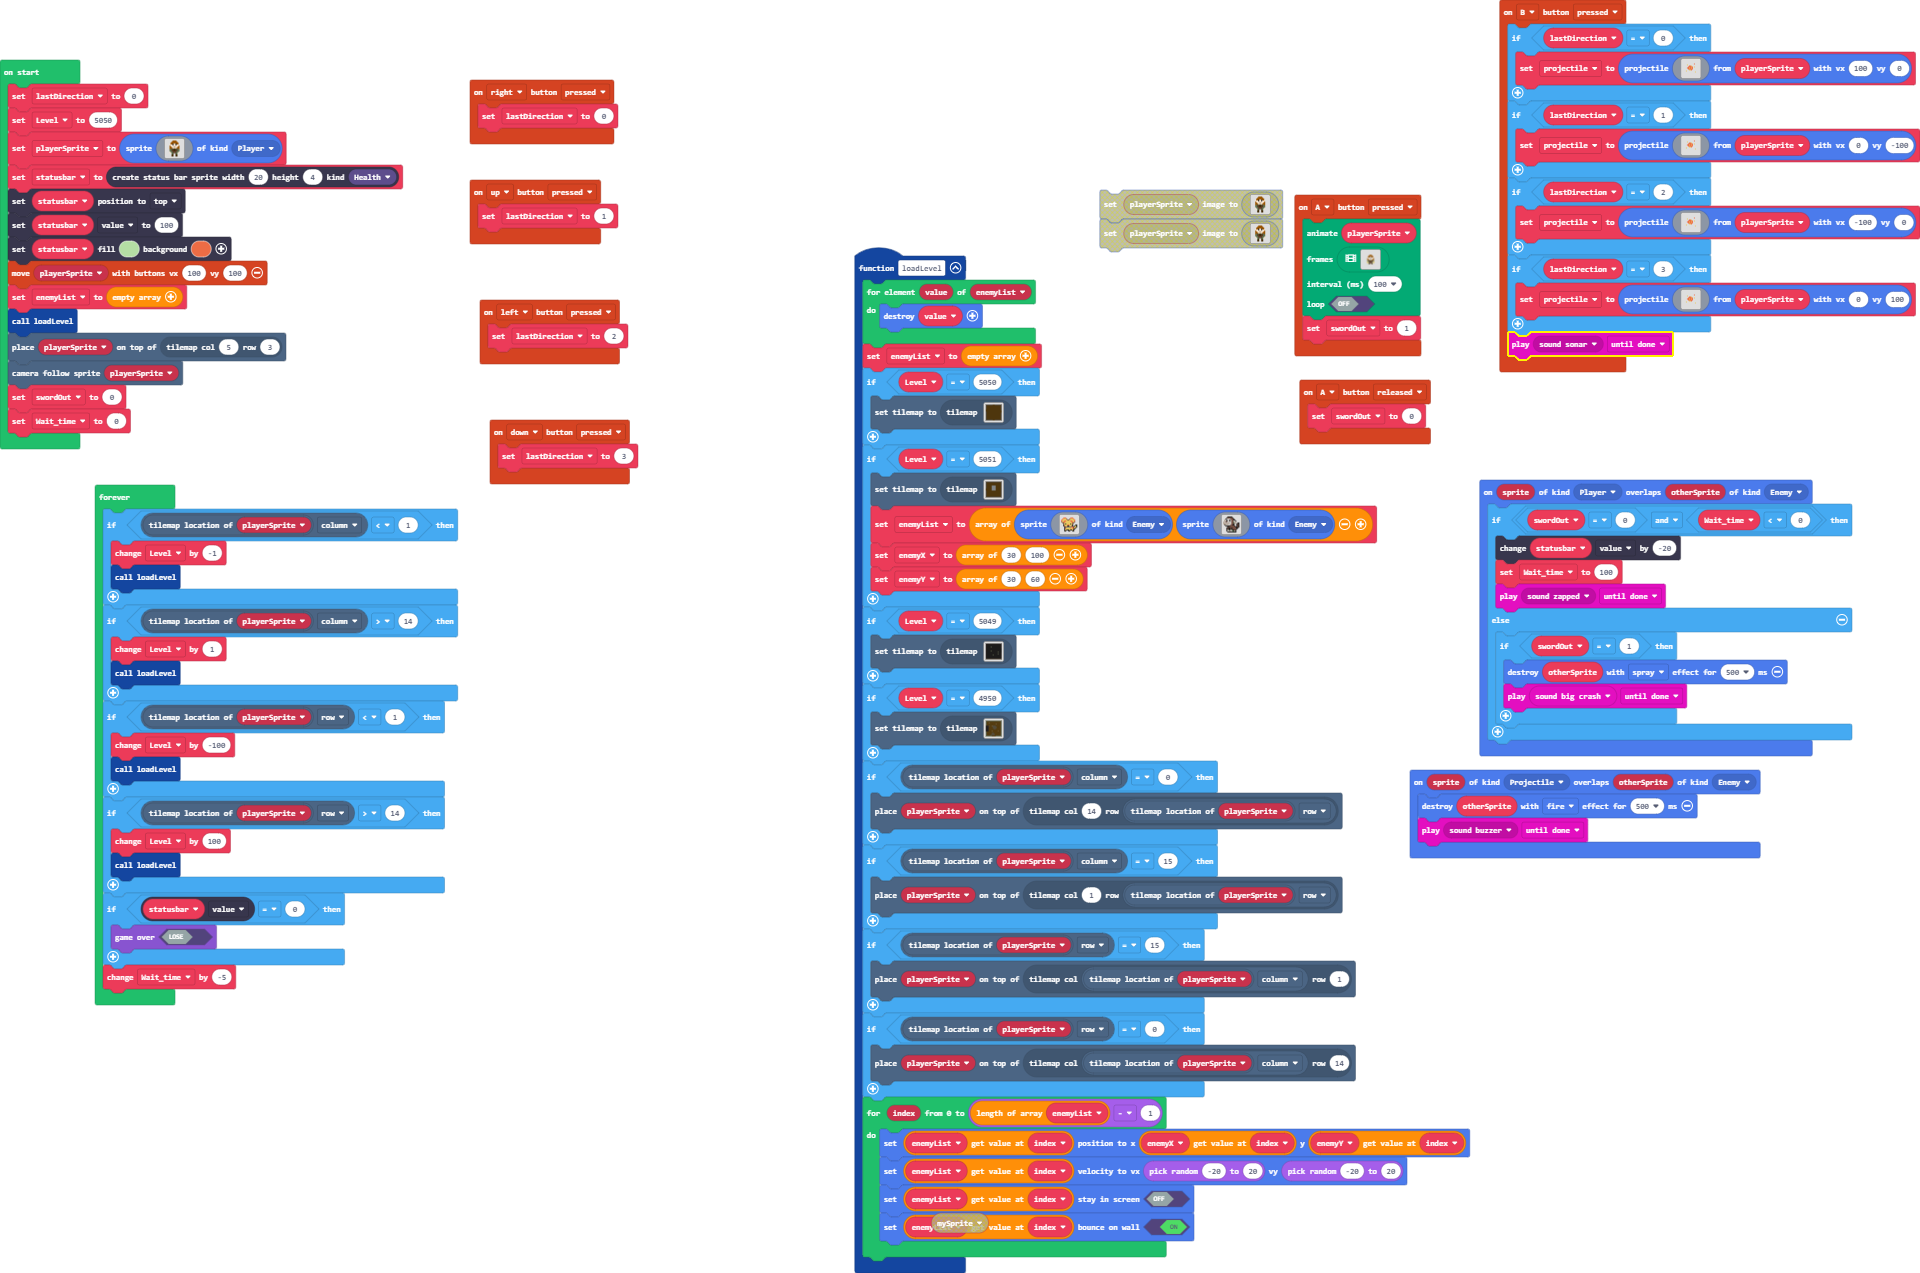
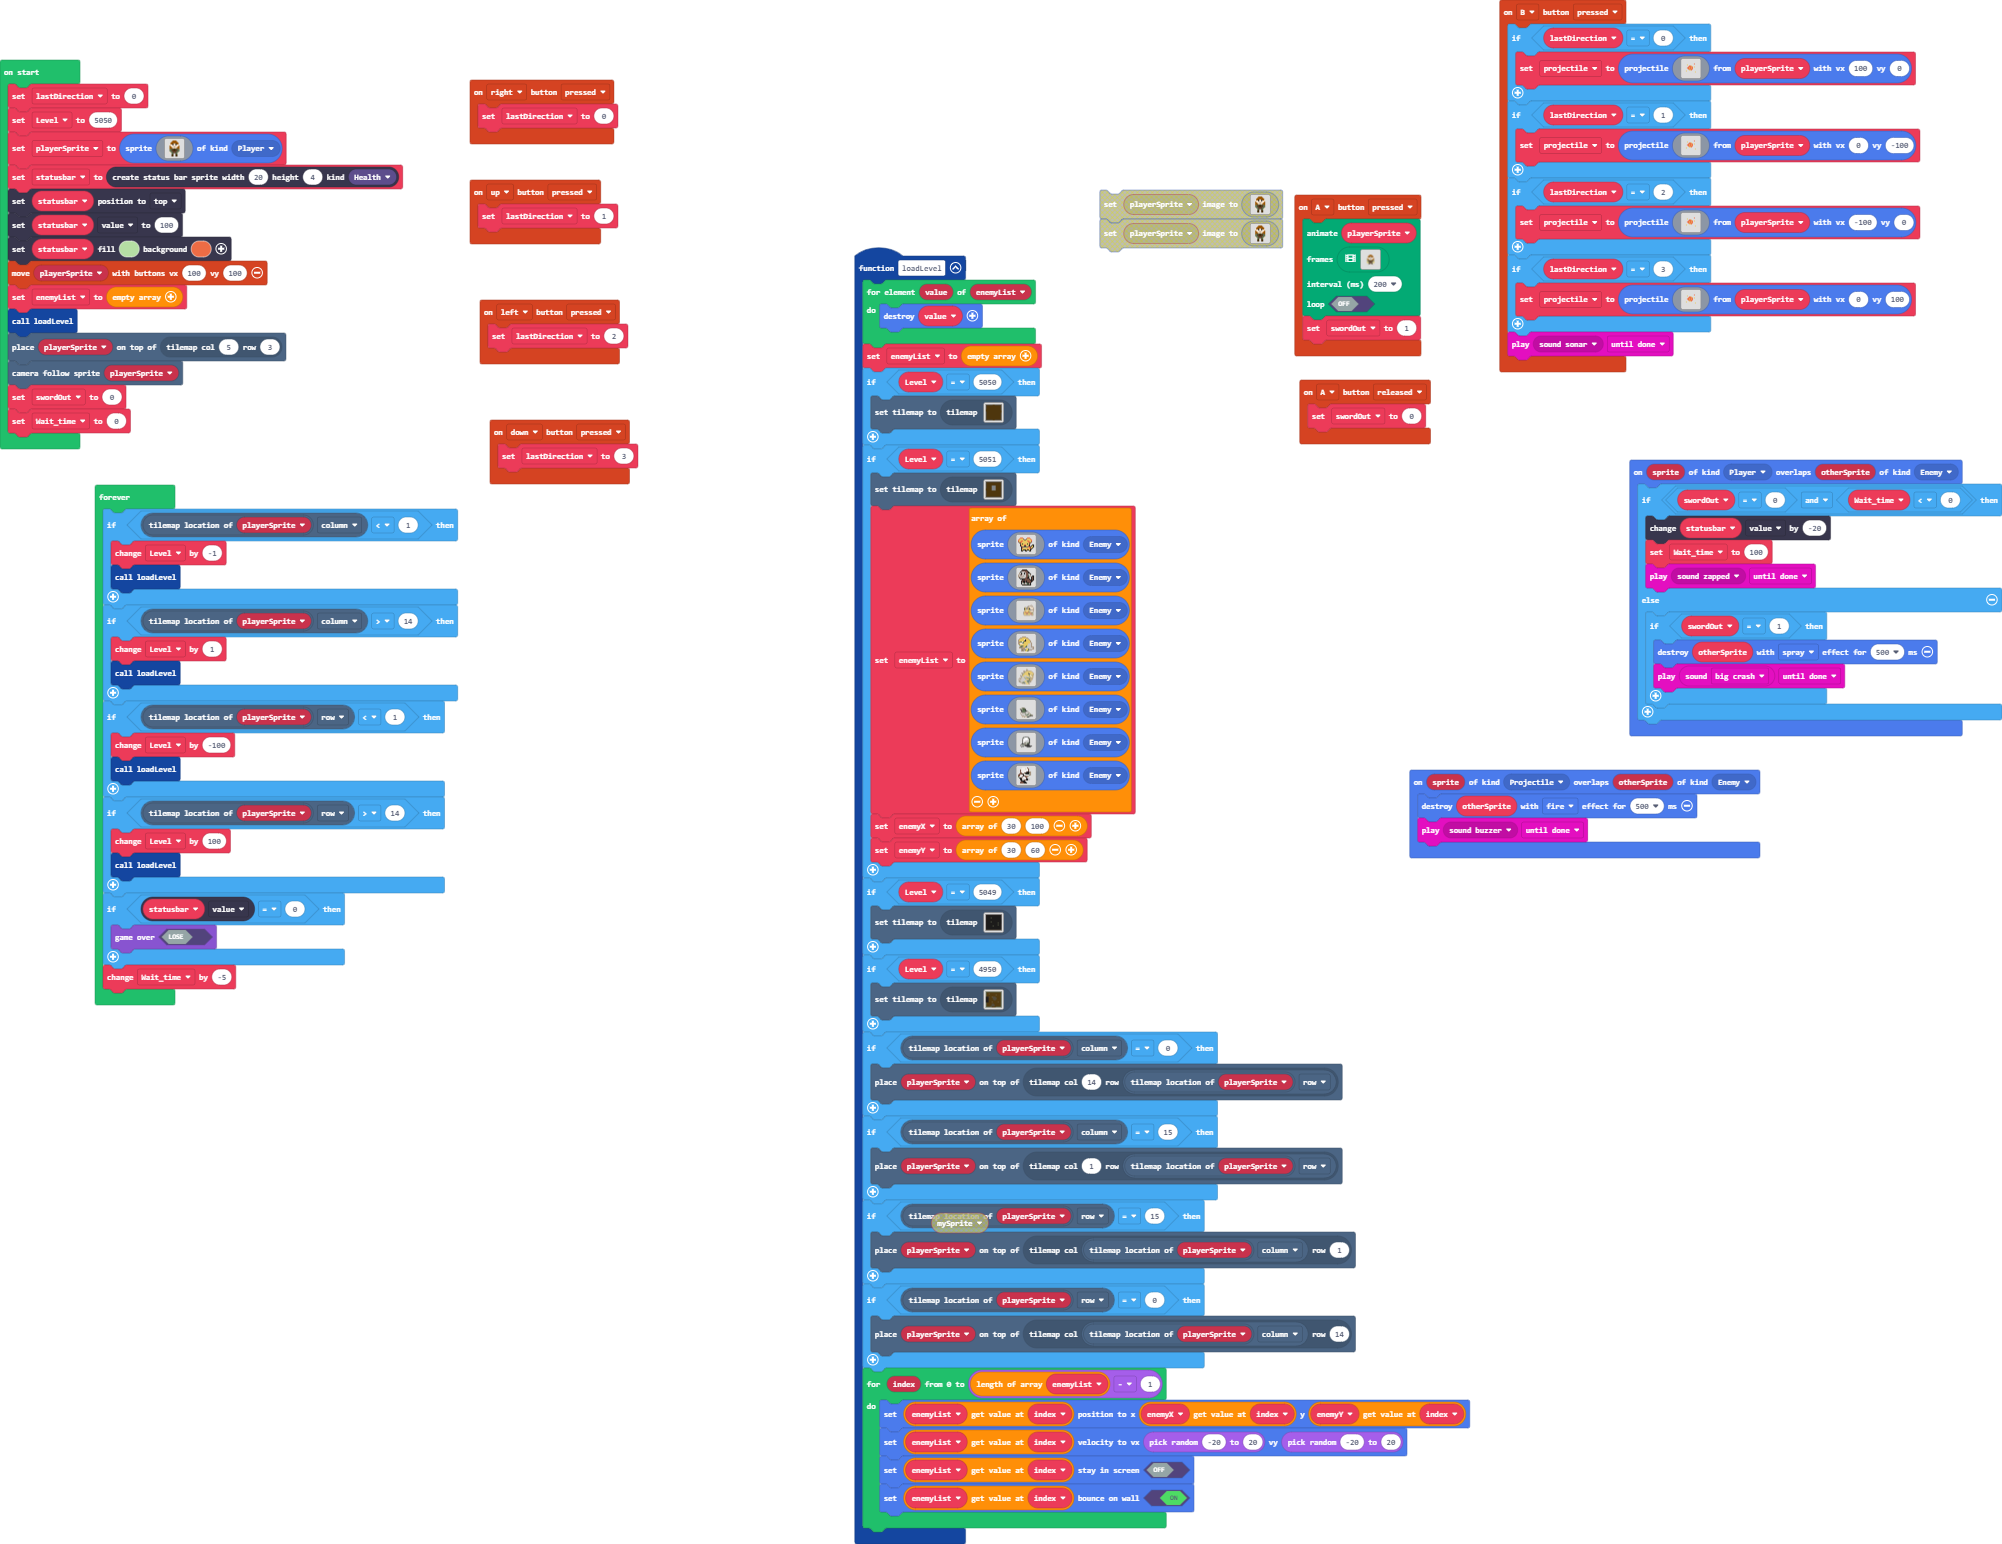
Update main.blocks, main.ts, images.g.jres, images.g.ts

diff --git a/images.g.ts b/images.g.ts
@@ -134,6 +134,158 @@ d d d d 4 1 f d d f 1 4 e e f .
 . . . . . 7 7 . . 7 7 . . . . . 
 . . . . . 7 7 . . 7 7 . . . . . 
 `;
+            case "image8":
+            case "hermitCrabAttack0":return img`
+...................cc...
+...............cccc63c..
+..............c633336c..
+..........cc.c6cc33333c.
+.........b55c6c55c33333c
+.........ff5c6c5ff33333c
+.........ff5c6c5ff6333cc
+.........b553c355c6666cc
+..........b55355c333333c
+.........cc55555bcc3333c
+........c5545554b55c33c.
+........b54b4444bb5cbb..
+........c455b4b5554c45b.
+........c555c4c555c4c5c.
+........c5555c5555c4c5c.
+.........ccccccccc..ccc.
+`;
+            case "image11":
+            case "kaijuBabyWalk4":return img`
+. . . . . . . . . . . . . . . . 
+. . . . c c c c . . . . . . . . 
+. . c c 5 5 5 5 c c . . . . . . 
+. c 5 5 5 5 5 5 5 5 c . . . . . 
+c 5 5 5 5 5 1 f 5 5 5 c . . . . 
+c 5 5 5 5 5 f f 5 5 5 5 c . . . 
+c c b b 1 b 5 5 5 5 5 5 c . . . 
+c c 3 3 b b 5 5 5 5 5 5 d c . . 
+c 5 3 3 3 5 5 5 5 5 d d d c . . 
+. b 5 5 5 5 5 5 5 5 d d d c . . 
+. . c b b c 5 5 b d d d d c . . 
+. c b b c 5 5 b b d d d d c c c 
+. c c c c c c d d d d d d d d c 
+. . . c c c c d 5 5 b d d d c c 
+. . . c b c c b 5 5 b c c c . . 
+. . . c c c d 5 5 b c . . . . . 
+`;
+            case "image10":
+            case "kaijuMomWalk5":return img`
+........................
+............cc..........
+............ccc.........
+........cc..ccccccc.....
+........ccccc555555cc...
+........ccb5555555555c..
+.....cc..b555555555555c.
+.....cccb555555ff155555c
+......cb55555555ff55d55c
+......b5555555555555555c
+...cc.b555dd5555bb13bbc.
+...cccd55ddddd555b3335c.
+....ccdd5ddddddd55b335c.
+.....bddddb55bdddd5555c.
+..cccdddddb55bbbbbcccc..
+.ccccddddddb5555cbcccc..
+.cdccdddddddc555cbc55c..
+.cdddddddddddcccbbc5c...
+.cbddddddd55dbbbbccc....
+.ccbdddddd555dbbbcbc....
+..cccddbbbd555bbccc.....
+....ccbbbbbd555cc.......
+......ccccbddddbc.......
+..........cd5555dc......
+`;
+            case "image12":
+            case "pigeonIcon":return img`
+................................
+................................
+................................
+................................
+................................
+................................
+................................
+................................
+................................
+................................
+................................
+................................
+........ccccc...................
+......ccbbbbbc..................
+....ccddbbbbbbf.................
+...cbbbddbbffbf.................
+....ffffdbbffbff................
+.......fbbbbbbbf................
+.......fbbbbbbbff...............
+......ffbbbbbbbbfff.............
+......f6bbbbbb663ddcc...........
+.....cc66bbbb666dddddc..........
+.....cd36666663dddddddc.........
+.....cddd3333dbddddddbcc........
+.....cddddddddbdddddbbddc.......
+.....cddddddddbbdddbbdddbc......
+......cddddddddbbdbbddddbbccc...
+......ccddddddddbbbbcccccbbbcc..
+.......ccddddddddddddddbccffff..
+........cccbddccbddddbbfff......
+........c333bb333cbbfff.........
+........c33cc33cc3fff...........
+`;
+            case "image9":
+            case "skellyAttackLeft2":return img`
+........................
+........................
+........................
+..........ffff..........
+........ff1111ff........
+.......fb111111bf.......
+.......f1111111dbf......
+......fd1111111ddf......
+......fd111111dddf......
+......fd111ddddddf......
+......fd111ddddddf......
+......fd1dddddddbf......
+......fd1dfbddbbff......
+......fbddfcdbbcf.......
+.....ffffccddbfff.......
+....fcb1bbbfcffff.......
+....f1b1dcffffffff......
+....fdfdf..ffffffffff...
+.....f.f.....ffffff.....
+........................
+........................
+........................
+........................
+........................
+`;
+            case "image13":
+            case "footballPlayer0":return img`
+. . . . 2 2 2 2 2 e . . . . . . 
+. . . 2 2 2 2 d 2 2 e . . . . . 
+. . e 2 2 2 2 2 2 2 e . . . . . 
+. . e 2 2 2 2 2 2 2 e . . . . . 
+. . e 2 2 2 2 2 e f f c c . . . 
+. . e e 2 2 e f f f f b c . . . 
+. e e e f e 2 b f f f d c . . . 
+e e 2 2 d f 2 1 1 1 1 b c . . . 
+e e 2 2 d f e e c c c . . . . . 
+b 1 1 d e 2 2 e e c . . . . . . 
+. f f e 2 2 2 2 e . . . . . . . 
+. . f f d d 2 2 f f d d . . . . 
+. . f f d d e e f f d d . . . . 
+. . . f f f f . . . . . . . . . 
+. . e e e f f f . . . . . . . . 
+. . e e e e f f f . . . . . . . 
+`;
+            case "image14":
+            case "myImage":return img`
+d d . . . d . 
+e e e e e e d 
+d d . . . d . 
+`;
         }
         return null;
     })
@@ -162,7 +314,7 @@ d d d d 4 1 f d d f 1 4 e e f .
 .......d5b7ee7b5d.......
 .......d.77..77.d.......
 ........d......d........
-........................
+........d......d........
 ........................
 ........................
 ........................
@@ -187,7 +339,7 @@ d d d d 4 1 f d d f 1 4 e e f .
 .......d5b7ee7b5d.......
 .......d.77..77.d.......
 ........d......d........
-........................
+...............d........
 ........................
 ........................
 ........................
@@ -206,9 +358,9 @@ d d d d 4 1 f d d f 1 4 e e f .
 .......9beb77beb9.......
 ......55b777777b55......
 ......dd5ee77ee5dd......
-.....dd..b7ee7b..dd.....
-.....d...bbeebb...d.....
-.........b7..7b.........
+......d..b7ee7b..d......
+.....dd..bbeebb..dd.....
+.....d...b7..7b...d.....
 .........77..77.........
 .........77..77.........
 ........................

diff --git a/main.ts b/main.ts
@@ -20,7 +20,7 @@ controller.A.onEvent(ControllerButtonEvent.Pressed, function () {
     animation.runImageAnimation(
     playerSprite,
     assets.animation`Tauriel_knife`,
-    100,
+    200,
     false
     )
     swordOut = 1
@@ -38,7 +38,16 @@ function loadLevel () {
     }
     if (Level == 5051) {
         tiles.setCurrentTilemap(tilemap`level5051`)
-        enemyList = [sprites.create(assets.image`enemyDog`, SpriteKind.Enemy), sprites.create(assets.image`enemyMonkey`, SpriteKind.Enemy)]
+        enemyList = [
+        sprites.create(assets.image`enemyDog`, SpriteKind.Enemy),
+        sprites.create(assets.image`enemyMonkey`, SpriteKind.Enemy),
+        sprites.create(assets.image`hermitCrabAttack0`, SpriteKind.Enemy),
+        sprites.create(assets.image`kaijuBabyWalk4`, SpriteKind.Enemy),
+        sprites.create(assets.image`kaijuMomWalk5`, SpriteKind.Enemy),
+        sprites.create(assets.image`pigeonIcon`, SpriteKind.Enemy),
+        sprites.create(assets.image`skellyAttackLeft2`, SpriteKind.Enemy),
+        sprites.create(assets.image`footballPlayer0`, SpriteKind.Enemy)
+        ]
         enemyX = [30, 100]
         enemyY = [30, 60]
     }
